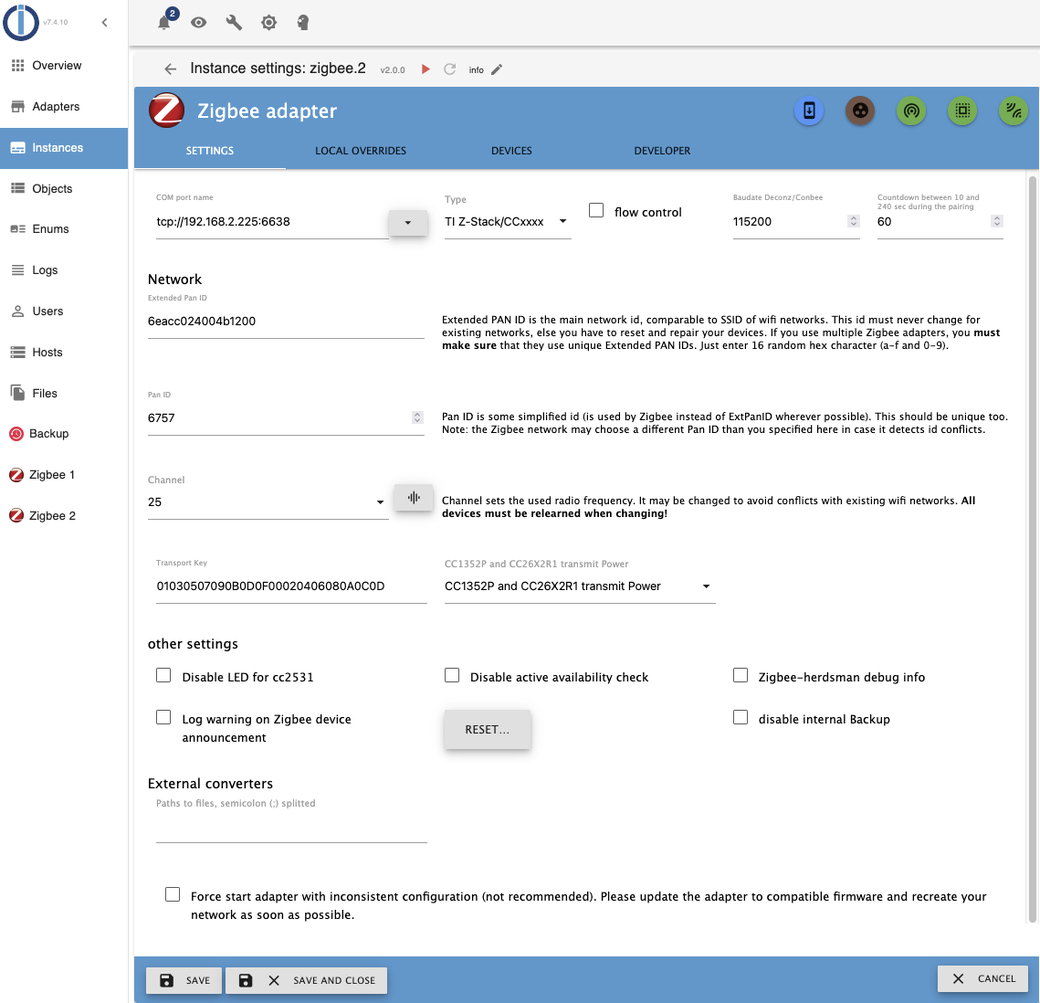
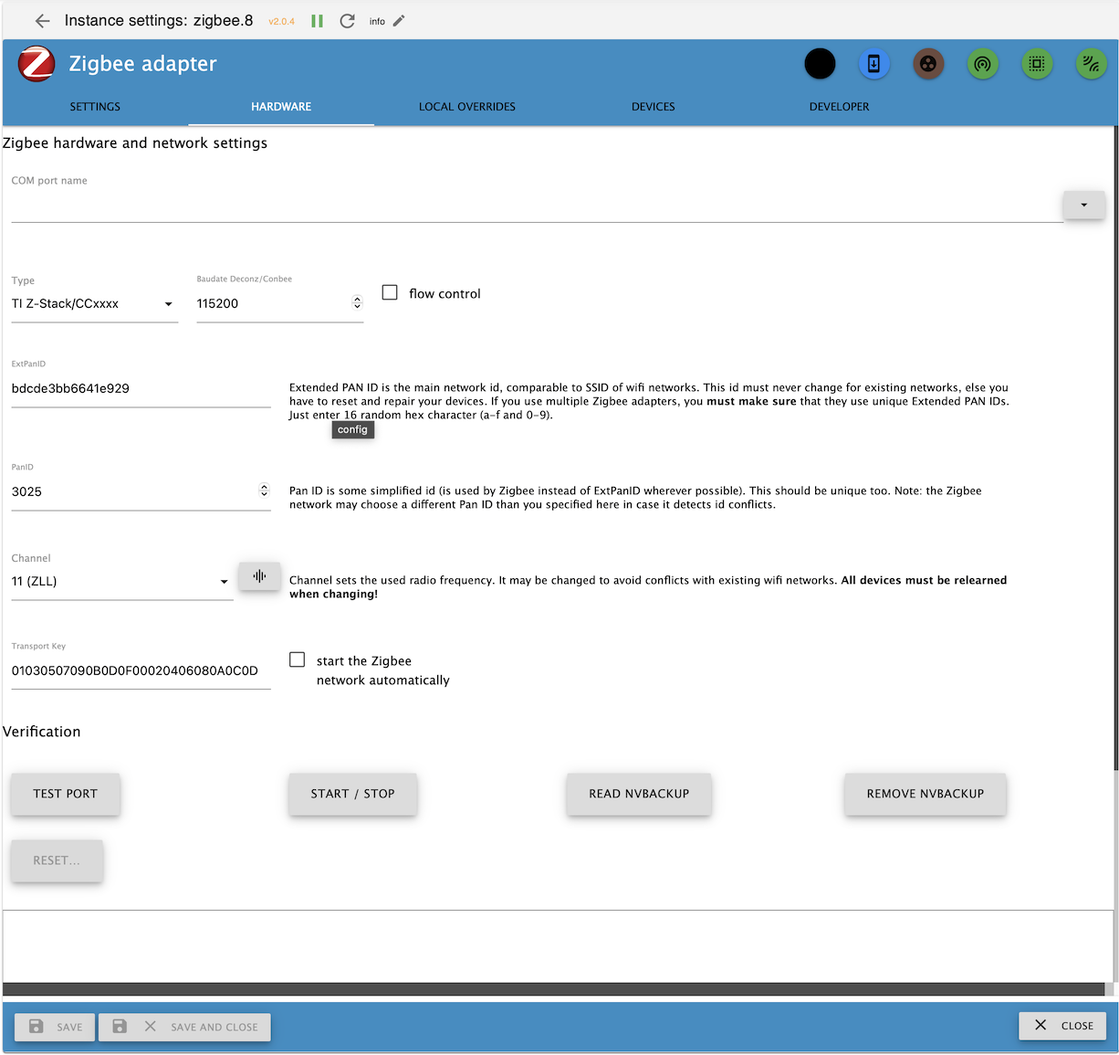
Documentation

diff --git a/lib/statescontroller.js b/lib/statescontroller.js
@@ -654,8 +654,8 @@ class StatesController extends EventEmitter {
                 if (value !== undefined) {
                     const type = stobj ? stobj.common.type : new_common.type;
                     if (type === 'number') {
-                        const minval = (stobj ? stobj.common.min: new_common.min) || -Number.MAX_VALUE;
-                        const maxval = (stobj ? stobj.common.max: new_common.max) || Number.MAX_VALUE;
+                        const minval = (stobj ? stobj.common.min : new_common.min);
+                        const maxval = (stobj ? stobj.common.max : new_common.max);
                         let nval = (typeof value == 'number' ? value : parseFloat(value));
                         if (isNaN(nval)) {
                             if (minval !== undefined && typeof minval === 'number')
@@ -663,7 +663,7 @@ class StatesController extends EventEmitter {
                             else
                                 nval = 0;
                         }
-                        if (nval < minval) {
+                        if (typeof minval == 'number' && nval < minval) {
                             hasChanges = true;
                             new_common.color = '#FF0000'
                             value = minval
@@ -673,7 +673,7 @@ class StatesController extends EventEmitter {
                                 this.stashedErrors[`${stateId}.min`] = `State value for ${stateId} has value "${nval}." less than min "${minval}"`;
                             }
                         }
-                        if (nval > maxval) {
+                        if (typeof maxval == 'number' && nval > maxval) {
                             hasChanges = true;
                             hasChanges = true;
                             new_common.color = '#FF0000'

diff --git a/lib/zbDeviceConfigure.js b/lib/zbDeviceConfigure.js
@@ -180,15 +180,20 @@ class DeviceConfigure extends BaseExtension {
                     if (this.configureOnMessageAttempts.hasOwnProperty(device.ieeeAddr)) {
                         const com = this.configureOnMessageAttempts[device.ieeeAddr];
                         com.count--;
+                        com.attempts++;
                         com.timestamp = Date.now();
-                        this.info(`Timeout trying to configure ${device.ieeeAddr} ${mappedDevice.model} (${com.count}).`)
-                        if ( com.count < 0) delete this.configureOnMessage[device.ieeeAddr];
+                        if ( com.count < 0) {
+                            delete this.configureOnMessageAttempts[device.ieeeAddr];
+                            this.info(`Configure on message abandoned for ${device.ieeeAddr} ${mappedDevice.model} after failing ${com.attempts} times.`)
+                        }
+                        else this.info(`Timeout trying to configure ${device.ieeeAddr} ${mappedDevice.model} (${com.count}).`)
                     }
                     else {
                         this.info(`Timeout trying to configure ${device.ieeeAddr} ${mappedDevice.model} (starting CoM).`)
                         this.configureOnMessageAttempts[device.ieeeAddr] = {
                             count: 5,
                             timestamp: 0,
+                            attempts: 0,
                         };
                     }
                     return `Configuration timed out ${device.ieeeAddr} ${device.modelID}. The device did not repond in time to the configuration request. Another attempt will be made when the device is awake.`;

diff --git a/lib/utils.js b/lib/utils.js
@@ -123,7 +123,7 @@ function sanitizeImageParameter(parameter) {
 }
 
 function getDeviceIcon(definition) {
-    let icon = definition.icon;
+    const icon = definition.icon;
     if (icon) {
         return icon;
     }

diff --git a/docs/de/readme.md b/docs/de/readme.md
@@ -2,29 +2,19 @@
 Mit Hilfe eines Koordinators für ZigBee-Netze, basierend auf dem Chip "Texas Instruments CC253x" (und anderen), wird ein eigenes ZigBee-Netz erschaffen, dem ZigBee-Geräte (Lampen, Dimmer, Sensoren, …) beitreten können. Dank der direkten Interaktion mit dem Koordinator erlaubt der ZigBee-Adapter die Steuerung der Geräte ohne jegliche Gateways/Bridges der Hersteller (Xiaomi/Tradfri/Hue). Zusätzliche Informationen zu ZigBee kann man hier [hier nachlesen (Englisch)](https://github.com/Koenkk/zigbee2mqtt/wiki/ZigBee-network).
 
 ## Die Hardware
-Für den Koordinator (siehe oben) ist eine zusätzliche Hardware erforderlich, welche die Umsetzung zwischen USB und ZigBee-Funksignalen ermöglicht. Es gibt 2 Gruppen:
+Für den Koordinator (siehe oben) ist eine zusätzliche Hardware erforderlich, welche die Umsetzung zwischen USB und ZigBee-Funksignalen ermöglicht. Es gibt 3 Arten von Koordinatoren:
 
-   - Aufsteckmodul für den RaspberryPi (wird nicht mehr verwendet da veraltet und keine Zigbee 3.0 Unterstützung)<br>
-   - USB-Stick ähnliche Hardware
+   - Aufsteckmodule für den RaspberryPi (Die Nutzung dieser Module wird **nicht** empfohlen.)<br>
+   - Per USB angeschlossene Module, entweder in Form von Entwicklungsboards oder USB-Sticks
    - Netzwerk Koordinatoren
-     
-![](img/cc26x2r.PNG)
-![](img/CC2591.png)
-![](img/sonoff.png)
 
+Eine vollständige Liste der kompatiblen Koordinatoren (auf englisch) ist [hier](https://www.zigbee2mqtt.io/guide/adapters/) zu finden. Wir empfehlen ausschliesslich den Einsatz von als 'recommended' gelisteten Koordinatoren. An gleicher Stelle finden sich auch Anleitungen zum aufspielen der benötigen Firmware.
 
-Bei manchen dieser Geräte ist zum Betrieb das Aufspielen einer geeigneten Firmware erforderlich:
-Bitte schaut zuerst wie die entsprechenden Koordinatoren geflasht werden müssen. Die Firmware ist [hier](https://github.com/Koenkk/Z-Stack-firmware) zu fimden.
+Koordinatoren werden auch mit bereits aufgespielter Firmware verkauft. Dabei gilt: **jeder Koordinator dessen Firmware mit Zigbee2mqtt.io kompatibel ist kann auch mit dem Zigbee Adapter verwendet werden**.
 
-Zunehmend beliebt kommt der "Sonoff ZIGBEE 3.0 USB-STICK CC2652P" zum Einsatz:
-![](img/sonoff.png)
-
-   - Flashen einer passenden Firmware nicht zwingend erforderlich (Ware wird bereits mit geeigneter Firmware ausgeliefert) <br>
-   - Unterstützt den neueren ZigBee 3.0 Standard
+Aktuell (Stand März 2025) sind insbesondere "Sonoff ZIGBEE 3.0 USB-STICK CC2652P" (Sowohl in der Variante mit CC2652P als auch mit EZSP Chipsatz) sowie Netzwerk-Koordinatoren mit Cod.m und/oder XTG Firmware beliebt. Auch der Conbee II und Conbee III werden oft eingesetzt. Vom Einsatz der TI Koordinatoren mit CC2530/CC2531 wird dringend abgeraten - diese gelten inzwischen als veraltet.
 
 Die mit dem ZigBee-Netz verbundenen Geräte übermitteln dem Koordinator ihren Zustand und benachrichtigen über Ereignisse (Knopfdruck, Bewegungserkennung, Temperaturänderung, …). Diese Infos werden im Adapter unter den jeweiligen ioBroker-Objekten angezeigt und können so in ioBroker weiterverarbeitet werden. Außerdem ist es möglich Kommandos an das ZigBee-Gerät zu senden (Zustandsänderung Steckdosen und Lampen, Farb- und Helligkeitseinstellungen, …).
-
-Eine weitergehende Aufstellung der verschiedenen Hardware-optionen für den Koordinator ist m [zigbee2mqtt.io Projekt](https://www.zigbee2mqtt.io/guide/adapters/) zu finden (Dokumentation ausschliesslich auf englisch)
 
 ## Die Software
 
@@ -36,10 +26,10 @@ Die Software wird unterteilt in "Konverter" und "Adapter".
     Der Konverter gliedert sich auf in zwei Teile: <br>
     a) Allgemeine Bereitstellung der Daten aus den ZigBee-Funksignalen. Dieser [Softwareteil](https://github.com/Koenkk/zigbee-herdsman) wird für alle ZigBee-Geräte verwendet.  <br>
     b) Gerätespezifische [Aufbereitung](https://github.com/Koenkk/zigbee-herdsman-converters) der Daten auf eine definierte Schnittstelle zum Adapter. <br>
-    
+
    - Adapter <br>
     Dieser Softwareteil ist die Anbindung des Konverters an ioBroker. Der [Adapter](https://github.com/ioBroker/ioBroker.zigbee) beinhaltet die grafische Darstellung zur Verwaltung der ZigBee-Geräte, sowie die Erzeugung der ioBroker-Objekte zur Steuerung der ZigBee-Geräte.
-    
+
 ## Installation
 1.	Koordinator Hardware am RaspberryPi anstecken.<br>
 2.	Über z.B. PuTTY mit RaspberryPi verbinden.<br>
@@ -49,11 +39,19 @@ sudo rm /opt/iobroker/iobroker-data/zigbee_0/nvbackup.json<br>
 Das folgende Beispiel zeigt eine Linux-Installation auf einem Raspberry PI. Der Befehl `ls -la /dev/serial/by-id/` erzeugt die im Bild erkennbare Ausgabe.
 ![](img/Bild2.png)
 6.	ioBroker -> ZigBee-Adapter installieren, hier als Beispiel die Version 1.8.10 <br> ![](img/Bild3.png)  <br> Hiermit werden alle erforderlichen Softwareteile (Konverter und Adapter) installiert.
-7. Konfiguration des Adapters öffnen. Das folgende Bild zeigt das Interface ab der Version 2.0.1.<br>![](img/Zigbee_config_de.png)<br>
-8. Port zum Koordinator eintragen. Im Fall von USB Koordinatoren ist das der zuvor ermittelte Device-Pfad. Im Fall von über das Netzwerk angesteuerten Koordinatoren muss an Stelle des Gerätepfades die Netzwerkaddresse samt port in der Form tcp://ip:port angegeben werden. Im Beispielbild ist als Port /dev/tty.usbserial-1410 eingetragen.<br> Es ist zu achten, dass am Ende kein Leerzeichen mit eingetragen wird.
-8.	Netzwerk-ID und Pan ID vergeben zur Unterscheidung von anderen ZigBee-Netzwerken in Funkreichweite, z.B. Wichtig: Sollte hier als erweiterte PanID die StandardID DDDDDDDDDDDDDDDD (Pan ID 6757) eingetragen sein so sollte diese **unbedingt** angepasst werden<br>
-9. Geeigneten Zigbee-Kanal auswählen. Dabei ist zu beachten das Zigbee und 2.4GHz WLAN sich das gleiche Frequenzband teilen. Der optimale Kanal hängt also unter anderem auch von den in der Umgebung verwendeten WLan Kanälen ab. Dabei sind die Kanalbezeichnungen von Zigbee und WLan **nicht** identisch. Weiterhin ist es Sinnvoll sich bei der Auswahl auf die Zigbee Light Link Kanäle 11,15,20 und 25 zu beschränken. Sofern der Adapter erfolgreich gestartet wurde kann über die Konfiguration auch ein Scan der Netzwerkkanäle durchgeführt werden. Dabei ist zu beachten das dieses vor dem Anlernen der Geräte geschehen sollte - nach dem Wechsel des Kanals muss der Adapter angehalten und das Backup gelöscht werden. In der folge müssen alle Geräte neu angelernt werden.
-10.	Prüfen ob der Adapter in ioBroker grün wird. Das kann bis zu 60 Sekunden dauern. Sollzustand: <br> ![](img/Bild10.png) <br> Andernfalls ist es notwendig die Meldungen im ioBroker Log zu lesen. Diese beinhalten Informationen darüber warum der Adapter nicht gestartet wurde, und können bei der Fehlersuche mit Hilfe des Forums bereits Lösungsansätze liefern.
+7. Konfiguration des Adapters öffnen. Das folgende Bild zeigt das Interface ab der Version 2.1.0.<br>![](img/Zigbee_config_de.jpg)<br>
+Der Admin zeigt in dieser Situation an ob das Zigbee-Subsystem gestartet ist (A).
+8. Port zum Koordinator eintragen. (B) Im Fall von USB Koordinatoren ist das der zuvor ermittelte Device-Pfad. Im Fall von über das Netzwerk angesteuerten Koordinatoren muss an Stelle des Gerätepfades die Netzwerkaddresse samt port in der Form tcp://ip:port angegeben werden. Sofern der Adapter selber (nicht das Zigbee-Subsyste) aktiv ist steht eine Liste der verfügbaren seriellen Schnittstellen zur Auswahl zur Verfügung. Bei der Auswahl gilt:
+- Sofern am System mehrere Adapter mit unterschiedlichen USB Geräten zur Kommunikation verwendet werden sollte **unbedingt** ein Port aus dem Verzeichnis /dev/serial/by-id (sofern verfügbar) ausgewählt werden. Damit wird sicher gestellt das bei einem Neustart des Systems die Zuordnung des Adapters zum Koordinator erhalte bleibt
+- Sofern ausschliesslich ein USB Gerät verwendet wird ist die Verwendung des /dev/TTY* Anschlusses zu bevorzugen. Damit kann der Koordinator bei Defekt durch ein baugleiches Gerät ersetzt werden ohne das die Konfiguration angepasst werden muss.
+8.	Netzwerk-ID und Pan ID vergeben zur Unterscheidung von anderen ZigBee-Netzwerken in Funkreichweite, z.B. Ab Adapter Version 2.1.0 weden ExtPanID (C) und PanID (D) automatisch mit zufälligen Werten vorbelegt bis die Konfiguration gespeichert wurde.<br>
+9. Geeigneten Zigbee-Kanal (E) auswählen. Dabei ist zu beachten das Zigbee und 2.4GHz WLAN sich das gleiche Frequenzband teilen. Der optimale Kanal hängt also unter anderem auch von den in der Umgebung verwendeten WLan Kanälen ab. Dabei sind die Kanalbezeichnungen von Zigbee und WLan **nicht** identisch. Weiterhin ist es Sinnvoll sich bei der Auswahl auf die Zigbee Light Link (ZLL) Kanäle zu beschränken. Sofern der Adapter erfolgreich gestartet wurde kann über die Konfiguration auch ein Scan der Netzwerkkanäle durchgeführt werden. Ab Adapter Version 2.1.0 ist es Möglich den Kanal zu wechseln ohne das die Konfiguration gelöscht und alle Geräte neu angelernt werden müssen. Diese Funktion ist aber als Experimentell zu betrachten - es kann sein das einzelne Geräte den Kanalwechsel nicht mit machen - diese müssen in der Folge neu angelernt werden.
+10.	Prüfen ob das Zigbee-Subsystem startet. Dazu via *Start/Stop* (F) versuchen das Zigbee-Subsystem zu starten. Im Log (Log) kann der Verlauf des Startversuchs beobachtet werden. Das Icon (A) ändert seine Farbe von Schwarz/Rot auf Schwarz/Orange während der Herdsman startet. Wenn der Versuch erfolgreich war erlischt das Icon komplett, ansonsten wird es wieder Rot und die Meldungen im Log geben Hinweise auf die Ursache.<br>
+Über die gleiche Schaltfläche kann der Herdsman auch angehalten werden. Auch dabei wird das Icon in Schwarz/Orange dargestellt. **Wichtig: Das Anhalten kann in einzelfǎllen bis zu 2 Minuten dauern - insbesondere bei der Verwendung von Netzwerk Koordinatoren.** Hier ist Geduld gefragt. Nachdem der Herdsman beendet wurde erscheint das Icon in Schwarz/Rot und die Meldung 'Herdsman stopped!'.
+Je nach Fehlerbild gibt es verschiedene mögliche Ursachen dafür das der Herdsman nicht startet. Sofern es sich dabei 'nur' um eine Zeitüberschreitung (Timeout) handelt ist es durchaus Sinnvoll den Versuch direkt zu widerholen. Bei inkonsistenter Konfiguration werden die relevanten Daten im Log angezeigt. Hier bietet der Adapter zwei Möglichkeiten den Konflikt zu lösen:
+- Lesen der Daten aus dem NVBackup. In diesem Fall wird die Konfiguration des Adapters angepasst.
+- Löschen des NVBackups. In diesem Fall bleibt die Konfiguration im Adapter wie sie ist. Dieses **erzwingt** einen Neuaufbau des Netzwerkes so das in der Folge alle bereits angelernten Geräte zurückgesetzt und neu angelernt werden müssen.<br>
+Die Ausgaben im Log sind auch dazu geeignet bei der Suche nach einer Lösung im [ioBroker Forum](https://forum.iobroker.net) eingesetzt zu werden. Dazu bitte die Meldungen markieren und **als Text** im Forum posten.
 
 ## Pairing
 Jedes ZigBee-Gerät (Schalter, Lampe, Sensor, …) muss mit dem Koordinator gekoppelt werden (Pairing):  <br>
@@ -61,10 +59,10 @@ Jedes ZigBee-Gerät (Schalter, Lampe, Sensor, …) muss mit dem Koordinator geko
    - ZigBee-Gerät:
     Jedes **ZigBee-Gerät** kann nur mit genau 1 ZigBee-Netzwerk verbunden sein. Hat das ZigBee-Gerät noch Pairing-Informationen zu einem fremden Koordinator (z.B. Philips Hue Bridge) gespeichert, dann muss es von diesem ZigBee-Netzwerk zuerst entkoppelt werden. Dieses Entkoppeln vom alten ZigBee-Netzwerk erfolgt vorzugsweise über die Bedienoberfläche des alten ZigBee-Netzwerkes (z.B. Philips Hue App). Alternativ kann man das ZigBee-Gerät auf Werkseinstellungen zurücksetzen.  <br>
     Um ein ZigBee-Gerät nun in den Pairing-Mode zu versetzen, gibt es typischerweise folgende Möglichkeiten: <br>
-        1.	ZigBee-Gerät von einem ZigBee-Netzwerk entkoppeln  
-        2.	Pairing-Button am ZigBee-Gerät drücken (ggf. mehrfach) 
+        1.	ZigBee-Gerät von einem ZigBee-Netzwerk entkoppeln
+        2.	Pairing-Button am ZigBee-Gerät drücken (ggf. mehrfach)
         3.	Versorgungsspannung des ZigBee-Gerätes aus- und dann wieder einschalten  (ggf. mehrfach)
-      
+
 Danach ist das ZigBee-Gerät für typischerweise 60 Sekunden im Pairing-Mode. <br>
 Ähnlich wie die Vorgehensweise zum Rücksetzen auf Werkseinstellungen ist auch das Aktivieren des Pairing-Mode abhängig vom jeweiligen Gerätetyp (ggf. Bedienungsanleitung des ZigBee-Gerätes lesen).  <br>
 
@@ -100,19 +98,30 @@ Als Ergebnis kommt eine von zwei Möglichkeiten in Frage:
 In Beiden Fällen ist es hinreichend den Adapter neu zu starten - die entsprechend angepassten Datenpunkte des Adapters werden angelegt. Sofern dabei Datenpunkte nicht weiter unterstützt werden so werden diese in orange eingefärbt und der Adapter zeigt die Schaltfläche zum löschen der verwaisten Datenpunkte an.
 
 ## Symbole im ZigBee-Adapter
-    
+
 | Bild                | Beschreibung                                                                                                                                                                                                                                                                                                                                                                                                                                                                                                                                                                                                                                                                                                 |
 |---------------------|--------------------------------------------------------------------------------------------------------------------------------------------------------------------------------------------------------------------------------------------------------------------------------------------------------------------------------------------------------------------------------------------------------------------------------------------------------------------------------------------------------------------------------------------------------------------------------------------------------------------------------------------------------------------------------------------------------------|
-| ![](img/Bild30.png) | **State Cleanup** <br> Löschen von ungültigen ioBroker-Objekten, welche durch den Vorgang "Ausschliessen" entstehen können.                                                                                                                                                                                                                                                                                                                                                                                                                                                                                                                                                                                  |
-| ![](img/Bild31.png) | **Auf Firmware Updates überprüfen** <br> Firmware der ZigBee-Geräte (z.B. Philips Hue Lampen) aktualisieren                                                                                                                                                                                                                                                                                                                                                                                                                                                                                                                                                                                                  |
-| ![](img/Bild32.png) | **Add Group**  <br>Über diese Funktion können mehrere ZigBee-Geräte zu einer logischen Gruppe zusammengefasst werden und dann über ein ioBroker-Objekt gemeinsam angesteuert werden, z.B. brightness=20 dann wird bei allen ZigBee-Geräten der Gruppe brightness auf 20 gesetzt.                                                                                                                                                                                                                                                                                                                                                                                                                             |
-| ![](img/Bild33.png) | **Touchlink zurücksetzen und koppeln** <br> Touchlink ist eine Funktion von ZigBee, die es physisch nahe beieinander liegenden Geräten ermöglicht, miteinander zu kommunizieren, ohne sich im selben Netzwerk zu befinden. Diese Funktion wird nicht von allen Geräten unterstützt. Um ein ZigBee-Gerät über Touchlink auf Werkseinstellungen zurückzusetzen, bringe das Gerät in die Nähe (< 10 cm) des ZigBee-Koordinators und drücke dann das grüne Symbol.                                                                                                                                                                                                                                               |
-| ![](img/Bild34.png) | **Pairing mit QR Code**  <br>Bei manchen ZigBee-Geräten erfolgt das Pairing mittels QR-Code.                                                                                                                                                                                                                                                                                                                                                                                                                                                                                                                                                                                                                 |
-| ![](img/Bild35.png) | **Pairing**  <br> Anlernvorgang neuer ZigBee-Geräte (Pairing) starten.                                                                                                                                                                                                                                                                                                                                                                                                                                                                                                                                                                                                                                       |
+| ![](img/Bild30.png) | **State Cleanup** <br> Löschen von unverbundenen ioBroker-Objekten. Diese können  welche durch den Vorgang "Ausschliessen" entstehen können.                                                                                                                                                                                                                                                                                                                                                                                                                                                                                                                                                                                  |
+| ![](img/Bild38.png) | **Show stashed errors** <br> Anzeigen von gesammelten Fehlermeldungen die widerholt auftreten. Dieses Icon ist nur dann sichtbar wenn das System wiederkehrende Fehlermeldungen unterdrückt hat und dient dazu den Benutzer auf deren Existenz hin zu weisen.                                                                                                                                                                                                                                                                                                                                                                                                                                                                                                            |
+| ![](img/Bild31.png) | **Auf Firmware Updates überprüfen** <br> Der Zigbee Adapter ist unterstützt OTA Firmware upgrades, sofern die angeschlossenen Geräte dieses unterstützen. Mit dieser Schaltfläche wird die Überprüfung auf neuere Firmware angestossen - das eigentliche Upgrade miss in der Folge an jedem Gerät einzenl angestossen werden.                                                                                                                                                                                                                                                                                                                                                                                                                                                                                                                                                                                                  |
+| ![](img/Bild32.png) | **Add Group**  <br>Die Zigbee-Spezifikation unterstützt das anlegen von Gruppen von Geräten, die gemeinsam über einen Befehl angesteuert werden könne. Während die Spezifikation fast b eliebige Befehle als Gruppenbefehle unterstützt ist die Umsetzung im Zigbee-Adapter auf Leuchtmittel begrenzt - Mit dieser Schaltfläche kann eine neue Gruppe angelegt werden. Das hinzufügen und entfernen von Mitgliedern geschieht über die Geräte / Gruppenkacheln.                                                                                                                                                                                                                                                                                                                                                                           |
+| ![](img/Bild33.png) | **Touchlink zurücksetzen und koppeln** <br> Touchlink ist eine Funktion von des Zigbee Light Link (ZLL), die es physisch nahe beieinander liegenden Geräten ermöglicht miteinander zu kommunizieren, ohne an einen Koordinator angebunden zu sein. Diese Funktion wird nicht von allen Geräten unterstützt. Um ein ZigBee-Gerät über Touchlink auf Werkseinstellungen zurückzusetzen, bringe das Gerät in die Nähe (< 10 cm) des ZigBee-Koordinators und drücke dann das grüne Symbol. **Warnung** durch inkorrekte Umsetzung des Touchlink reset Prozesses kann es passieren das auch Geräte mit grösserem Abstand zurück gesetzt werden. Im Zweifelsfall ist es Angeraten eventuell betroffene Geräte kurzfristig stromlos zu machen.                                                                                                                                                                                                                                              |
+| ![](img/Bild34.png) | **Pairing mit QR Code**  <br>Es gibt Geräte die für das Pairing mit einem Netzwerk einen zusätzlichen Sicherheitscode benötigen. Dieser ist üblicherweise als QR Code auf dem und/oder der Anleitung angebracht. Ein Pairing mit diesen Geräten kann nur erfolgen wenn der entsprechende Code vorher angegeben wurde. **Hinweis** In vielen Anleitungen sind werden QR Codes angegeben die mit der Herstellerspezifischen App gelesen werden sollen um das Gerät an das Hersteller-Gateway anzubinden, obwohl die Geräte keinen Sicherheitscode unterstützen. In diesem Fall gibt der Adapter einen Fehler wenn versucht wird den Code einzugeben. Wenn das passiert macht es Sinn zu versuchen das Gerät 'normal' anzulernen.                                                                                                                                                                                                                                                                                                                                                                                                                                                                                                                                                           |
+| ![](img/Bild35.png) | **Pairing**  <br> Anlernvorgang neuer ZigBee-Geräte (Pairing) starten. Durch drücken auf diese Schaltfläche wird das Netzwerk für eine (konfigurierbare) Zeit zwischen 10 und 250 sekunden geöffnet so das neue Geräte in das Netzwerk aufgenommen werden
+## Gerätekacheln
+| Bild                | Beschreibung                                                                                                                                                                                                                                                                                                                                                                                                                                                                                                                                                                                                                                                                                                 |
+|---------------------|--------------------------------------------------------------------------------------------------------------------------------------------------------------------------------------------------------------------------------------------------------------------------------------------------------------------------------------------------------------------------------------------------------------------------------------------------------------------------------------------------------------------------------------------------------------------------------------------------------------------------------------------------------------------------------------------------------------|
 | ![](img/Bild36.png) | Zeit seit mit diesem ZigBee-Gerät  <br> zuletzt ein Datenaustausch stattgefunden hat.                                                                                                                                                                                                                                                                                                                                                                                                                                                                                                                                                                                                                        |
-| ![](img/Bild37.png) | Stärke des ZigBee-Funksignals <br> an diesem ZigBee-Gerät (<10 schlecht, <50 mittel, >50 gut).ZigBee ist ein Funk-Mesh-Netzwerk (mesh = vermascht). Die meisten netzbetriebenen ZigBee-Geräte (z.B. Philips Hue Lampe) können als ZigBee-Router wirken, also als Funkknotenpunkt. ZigBee-Geräte müssen somit nicht zwingend eine direkte Funkverbindung zum Koordinator aufbauen, sondern können stattdessen jeden Router im Netzwerk zur Funkverbindung nutzen. Mit jedem ZigBee-Router wird somit die Funkreichweite des Netzwerkes erweitert. Alle ZigBee-Geräte prüfen regelmäßig, ob es eine bessere Funkroute gibt und stellen sich automatisch um. Dieser Vorgang kann jedoch etliche Minuten dauern. |
+| ![](img/battery.png) | Batteriestand <br> sofern das Gerät einen Batteriestand meldet.                                                                                                                                                                                                                                                                                                                                                                                                                                                                                                                                                                                                                        |
+| ![](img/Bild37.png)<br>![](img/disconnected.png) | Stärke des ZigBee-Funksignals <br> an diesem ZigBee-Gerät (<10 schlecht, <50 mittel, >50 gut).ZigBee ist ein Funk-Mesh-Netzwerk. Die meisten netzbetriebenen ZigBee-Geräte (z.B. Philips Hue Lampe) können als ZigBee-Router wirken, also als Funkknotenpunkt. ZigBee-Geräte müssen somit nicht zwingend eine direkte Funkverbindung zum Koordinator aufbauen sondern können stattdessen jeden Router im Netzwerk zur Funkverbindung nutzen. Mit jedem ZigBee-Router wird somit die Funkreichweite des Netzwerkes erweitert. Alle ZigBee-Geräte prüfen regelmäßig, ob es eine bessere Funkroute gibt und stellen sich automatisch um. Dieser Vorgang kann jedoch etliche Minuten dauern.<br>Eine manuelle zuordnugn von Geräten zu Routern ist **nicht** möglich.<br> Das rote, durchgestrichene Symbol wird angezeigt wenn ein Gerät als 'nicht verbunden' gewertet wird. |
+| ![](img/grp_ok.png) ![](img/grp_nok.png) | Zustand einer Gruppe <br> Ein grüner Kreis signalisiert das eine Gruppe mit Mitgliedern versorgt und Funktionstüchtig ist, das rote X erscheint wenn eine Gruppe leer oder aus anderen Gründen nicht einsetzbar ist.                                                                                                                                                                                                                                                                                                                                                                                                                                                                                                                                                                                                                        |
+| ![](img/info.png) | Info <br> Öffnet die Informationsanzeige zum Gerät. Die auf dieser Seite dargestellten Informationen stammen direkt vom Gerät. Sie sind auch für unbekannte Geräte verfügbar.                                                                                                                                                                                                                                                                                                                                                                                                                                                                                                                                                                                                                        |
+| ![](img/debug.png) | Gerät debuggen <br> Aktiviert / deaktivert die Erzeugung von erweiterten Debug-Meldungen für dieses Gerät. Die Farbe des Icons zeigt den aktuellen Status an: (Schwarz/Weiss: keine Debug Meldungen, Grün Debug Meldungen - deaktivierbar mit dieser Schaltflächce. Orange - Debug Meldungen via Filter unter zigbee.x.info.debugmessages.                                                                                                                                                                                                                                                                                                                                                                                                                                                                                                                                                                                                                        |
+| ![](img/on_off.png) | An/Aus <br> Mit dieser Schaltfläche kann ein Gerät aktiviert / deaktiviert werden. Mit deaktiverten Geräten findet keine Kommunikation statt.                                                                                                                                                                                                                                                                                                                                                                                                                                                                                                                                                                                                                        |
+| ![](img/edit_image.png) | Bild / Name zusweisen <br> Mit dieser Schaltfläche ist es Möglich für das Gerät basierend auf dem Gerät oder dem Gerätetyp ein eigenes Bild und / oder einen eigenen Namen vorzugeben. Vorgaben die so gemacht werden bleiben erhalten wenn das Gerät gelöscht wird.                                                                                                                                                                                                                                                                                                                                                                                                                                                                                                                                                                                                                        |
+| ![](img/edit_grp.png) | Name / Gruppen editieren <br> Über diese Schaltfläche lässt sich der Name eines Gerätes sowie - wenn zutreffent - die Zuordnung des Gerätes zu einer oder mehreren Gruppen anpassen.                                                                                                                                                                                                                                                                                                                                                                                                                                                                                                                                                                                                                        |
+| ![](img/delete.png) | Gerät löschen <br> Started den Löschvorgang für dieses Gerät.                                                                                                                                                                                                                                                                                                                                                                                                                                                                                                                                                                                                                        |
 
 ## Zusätzliche Informationen
 Es gibt noch ein [Freundschaftsprojekt](https://www.zigbee2mqtt.io/) mit gleichen Funktionen und gleicher Technologie, welcher mit denselben Geräten über ein MQTT Protokoll kommuniziert. Wenn irgendwelche Verbesserungen oder neu unterstütze Geräte im Projekt ZigBee2MQTT eingefügt werden, können jene auch in dieses Projekt hinzugefügt werden. Solltet Ihr Unterschiede merken, schreibt bitte ein Issue und wir kümmern uns darum.
 Weitere Themen zu diesem Adapter sind auch im zugehörigen [Wiki](https://github.com/ioBroker/ioBroker.zigbee/wiki) dokumentiert.
-
